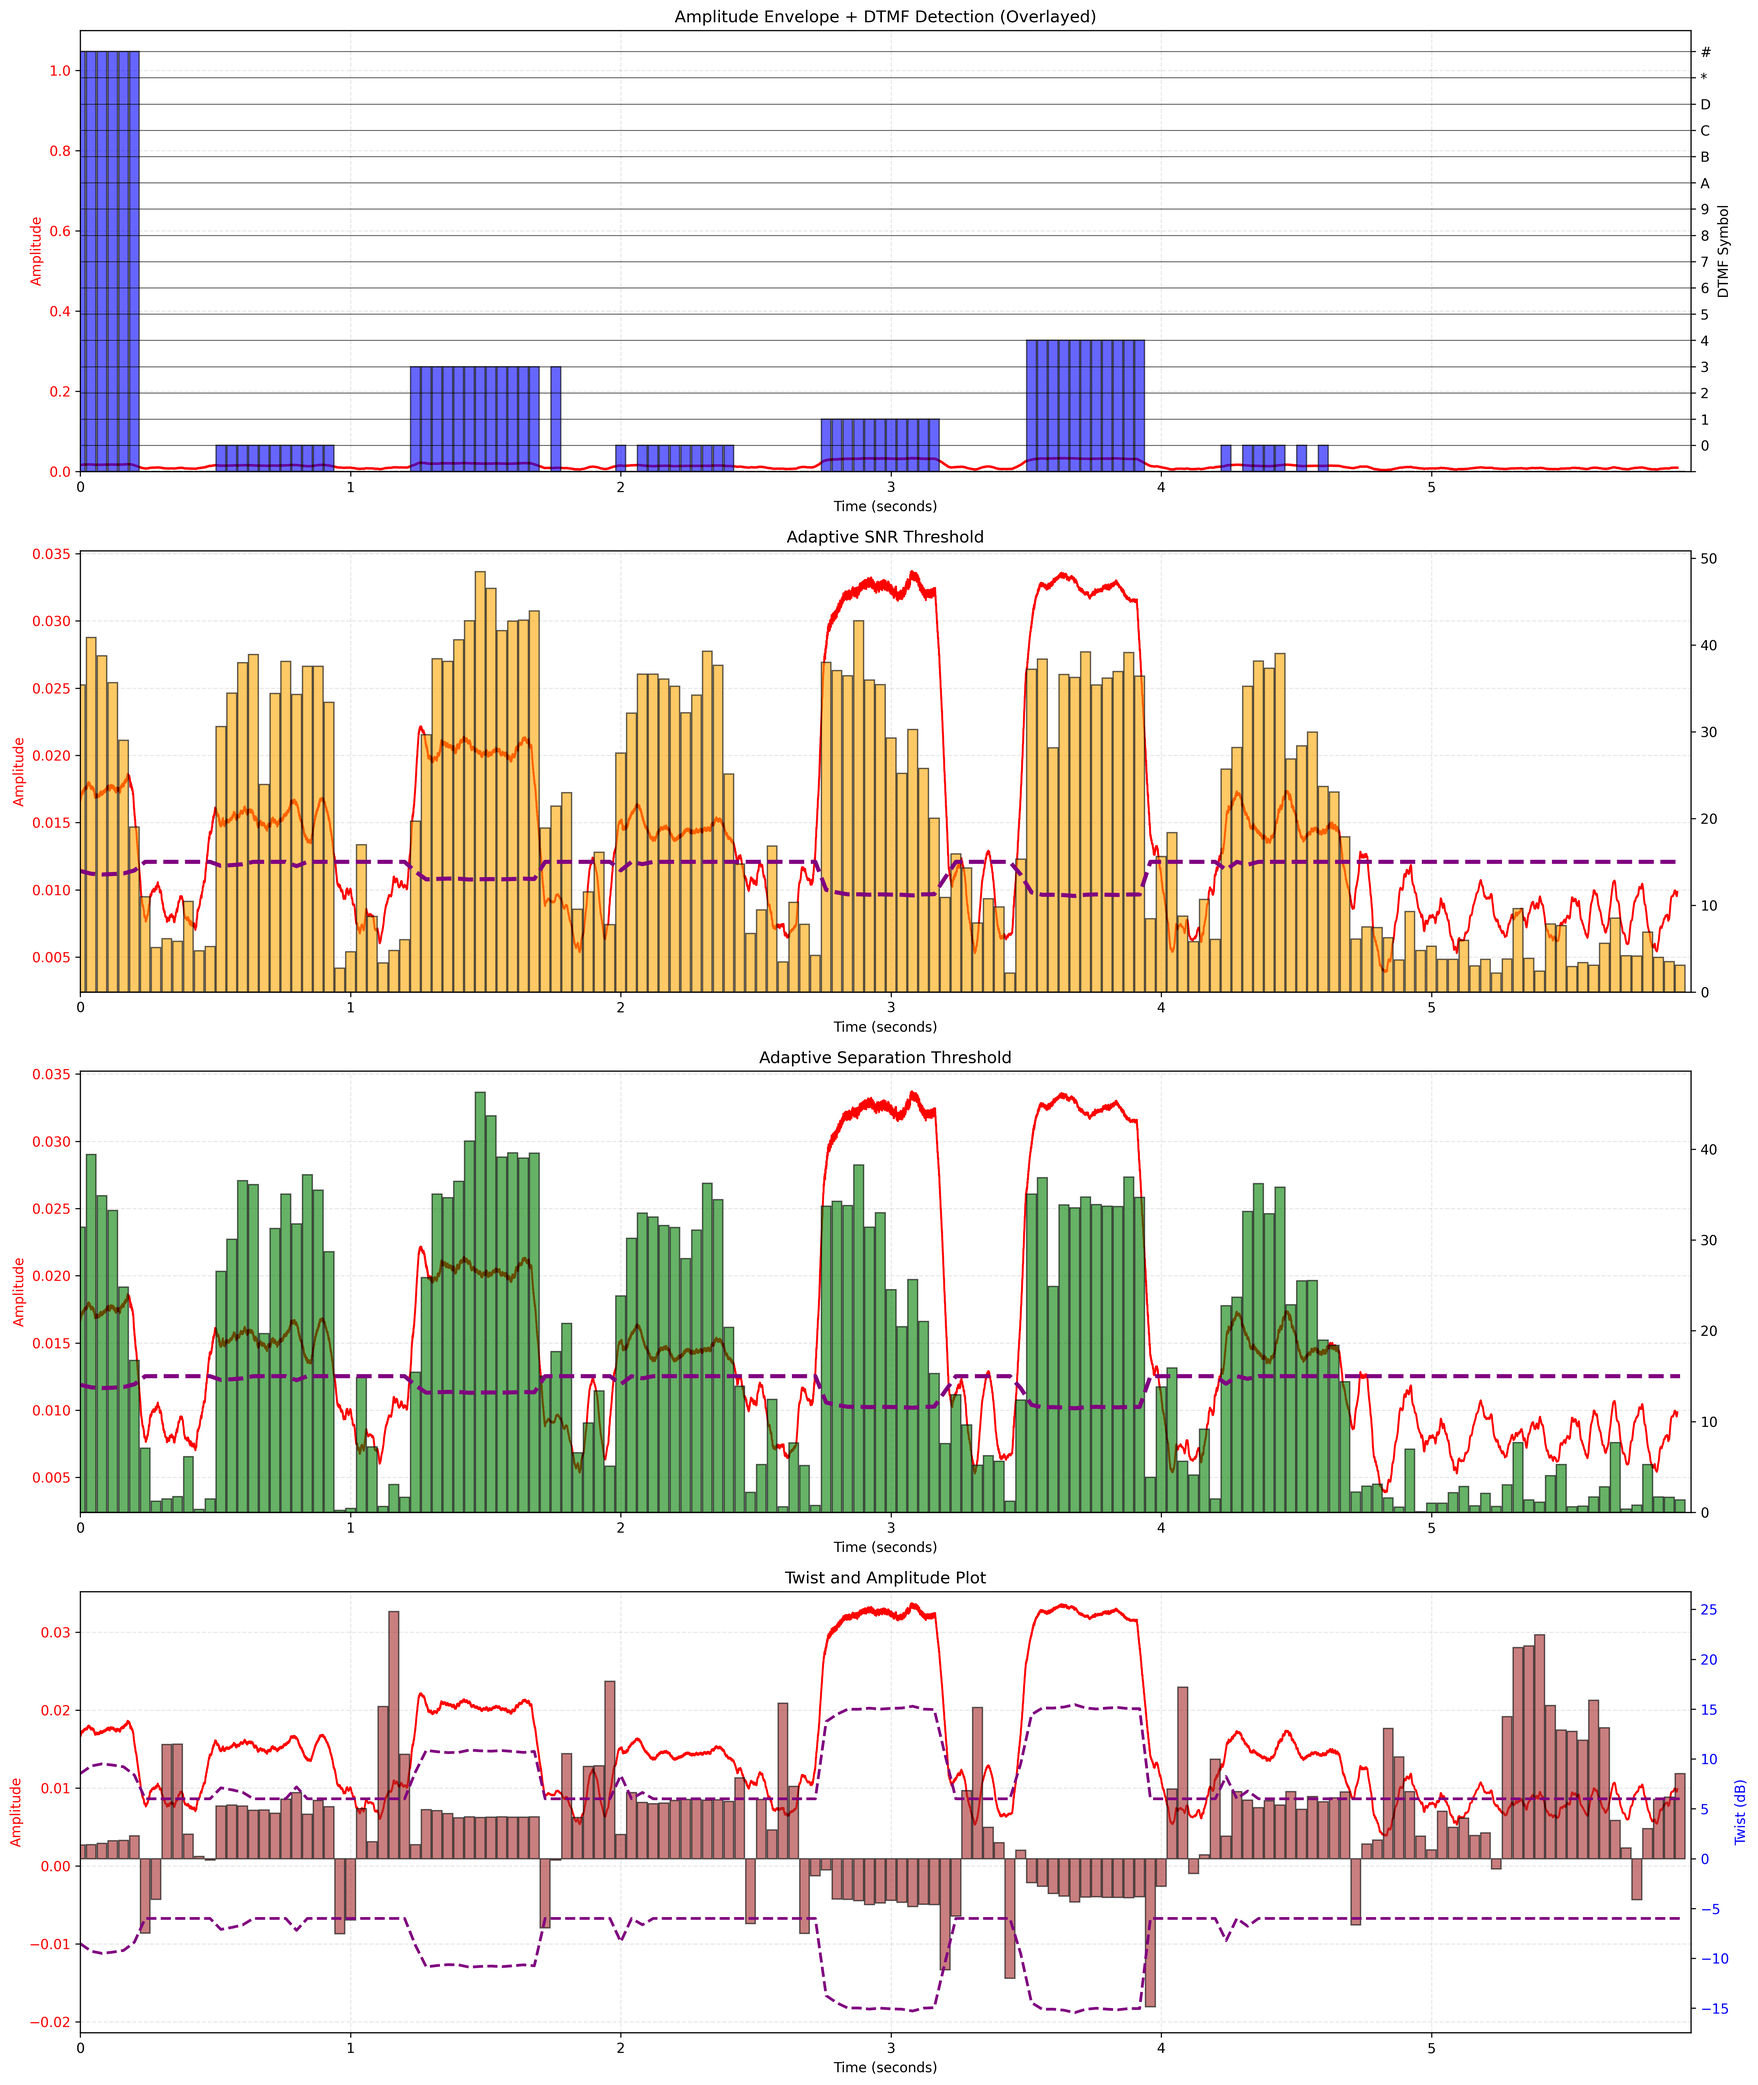
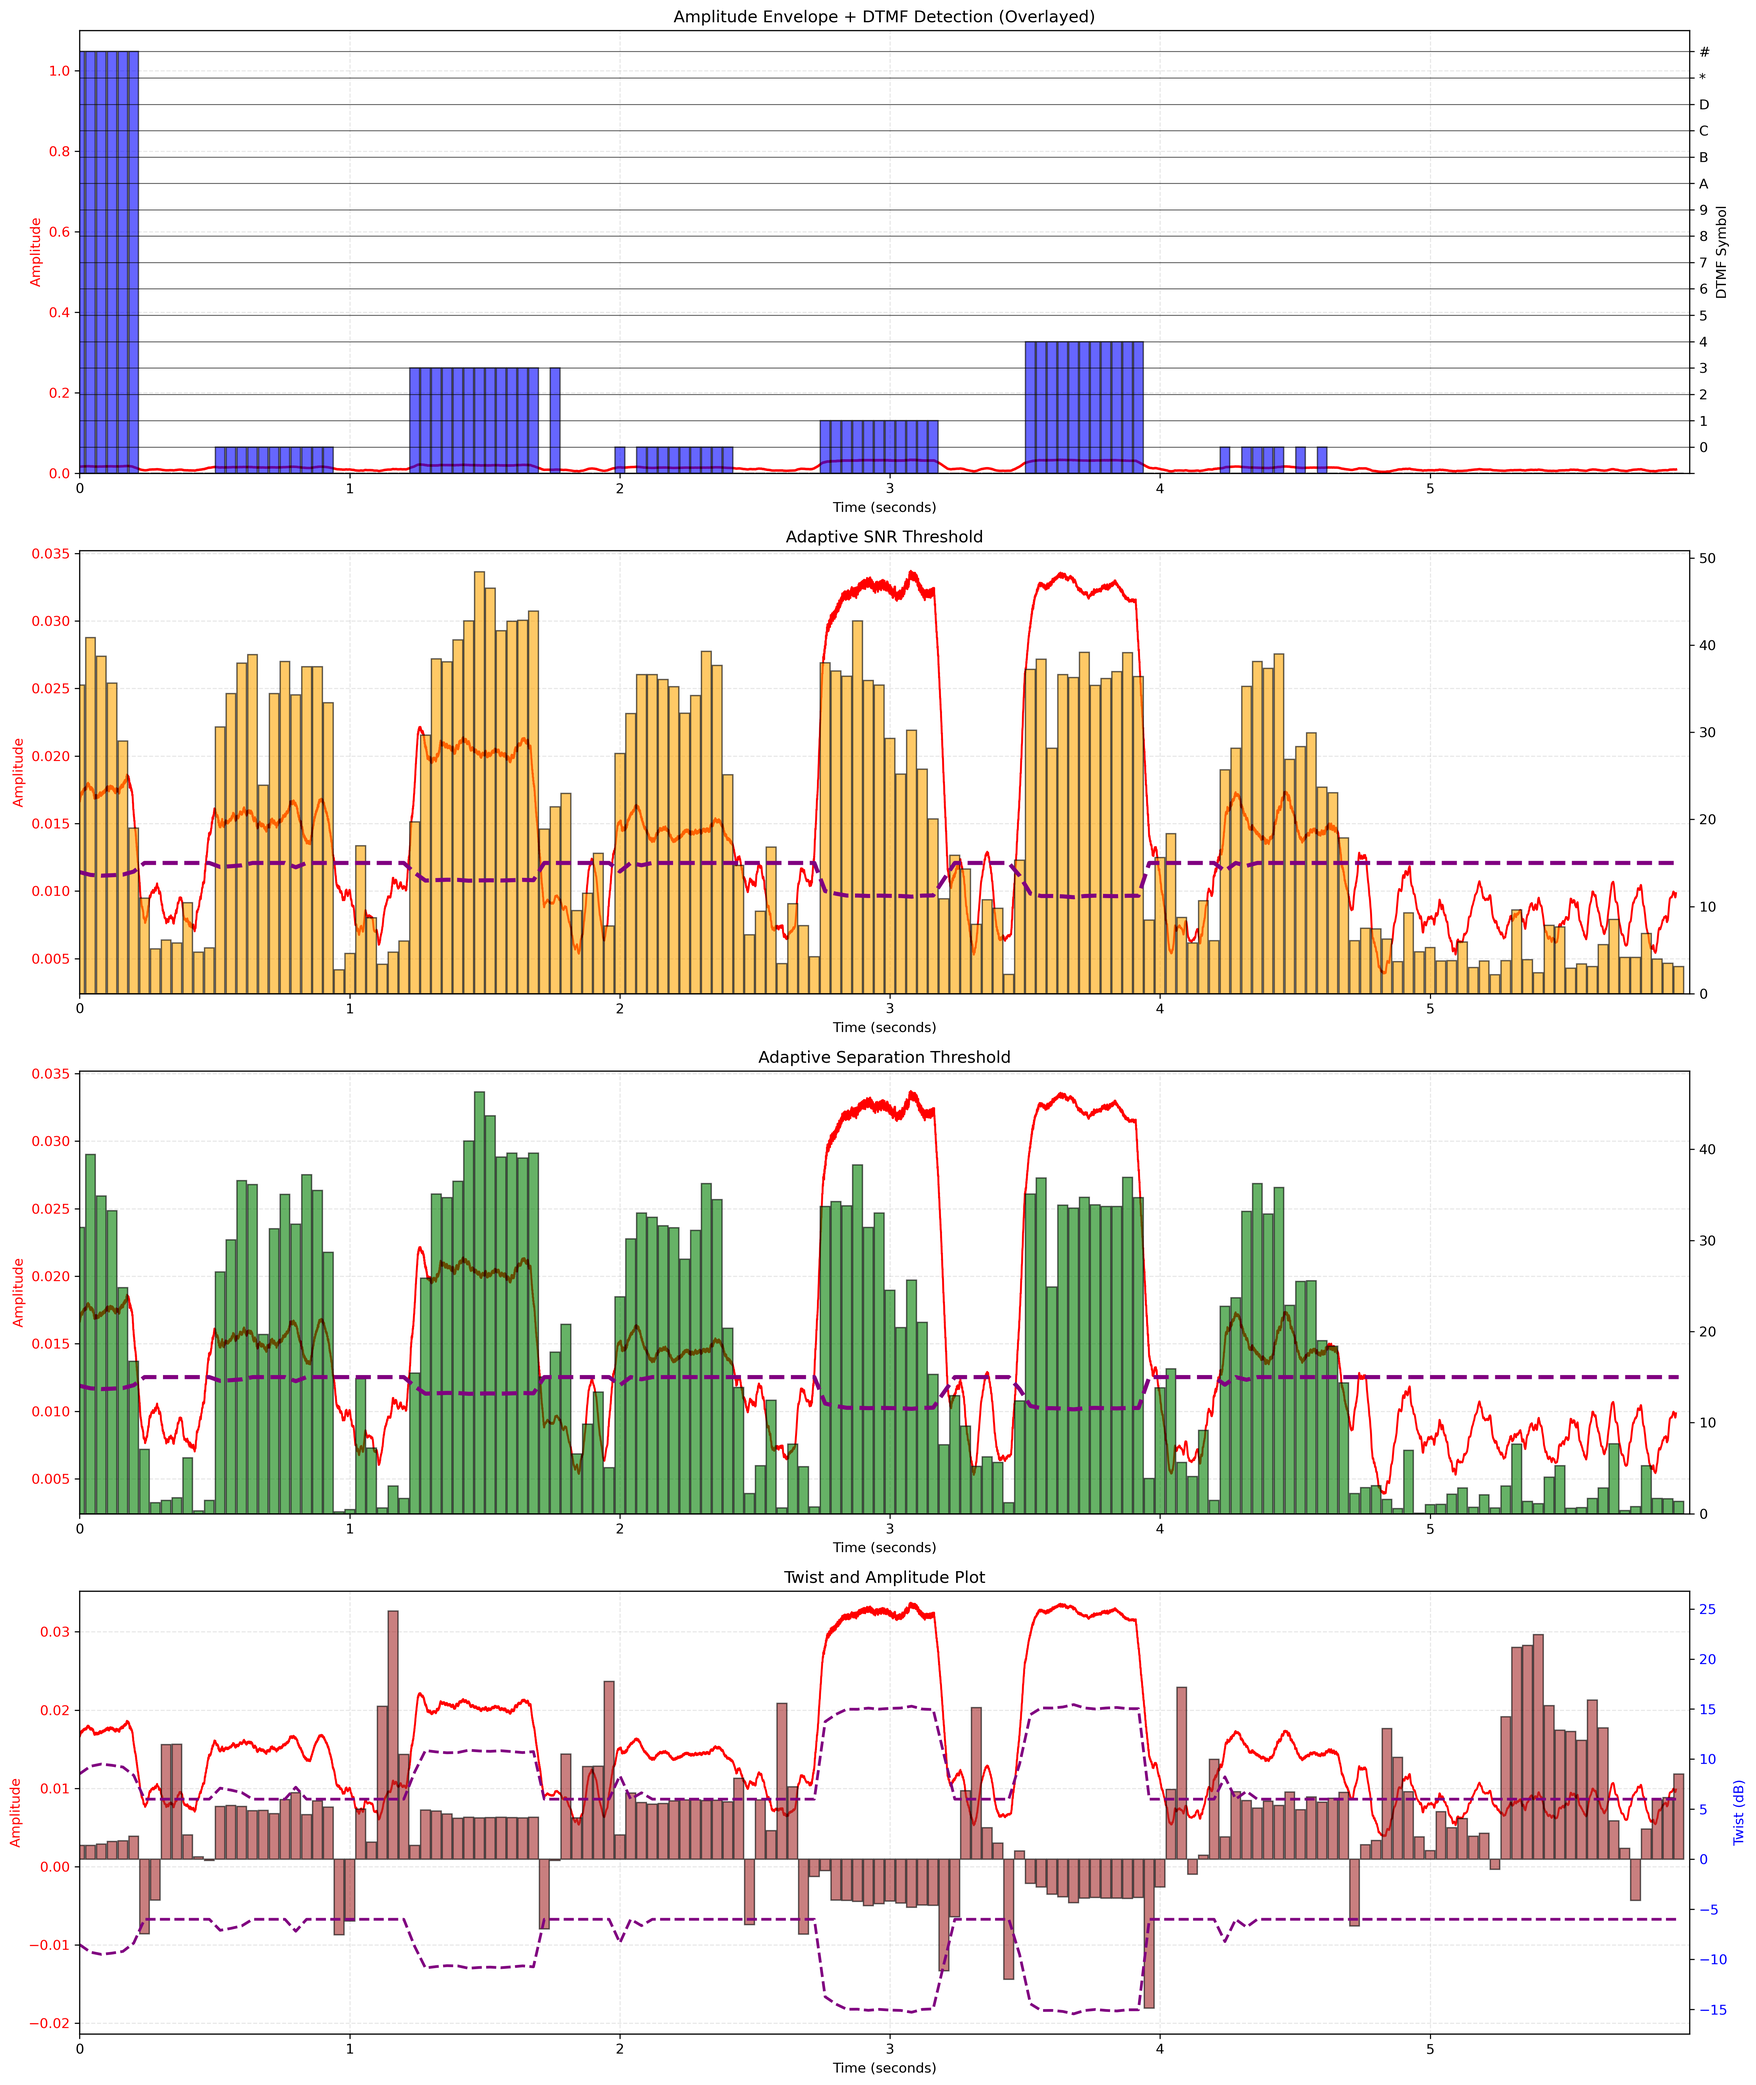
Maybe final thresholds

diff --git a/SignalProc/DTMFDetector.py b/SignalProc/DTMFDetector.py
@@ -167,7 +167,7 @@ class DTMFDetector:
                  twist_neg_min: float = -30.0,
 
                  # RMS range for adaptivity
-                 rms_min: float = 0.01,
+                 rms_min: float = 0.1,
                  rms_max: float = 0.25):
         
         # Sampling configuration
